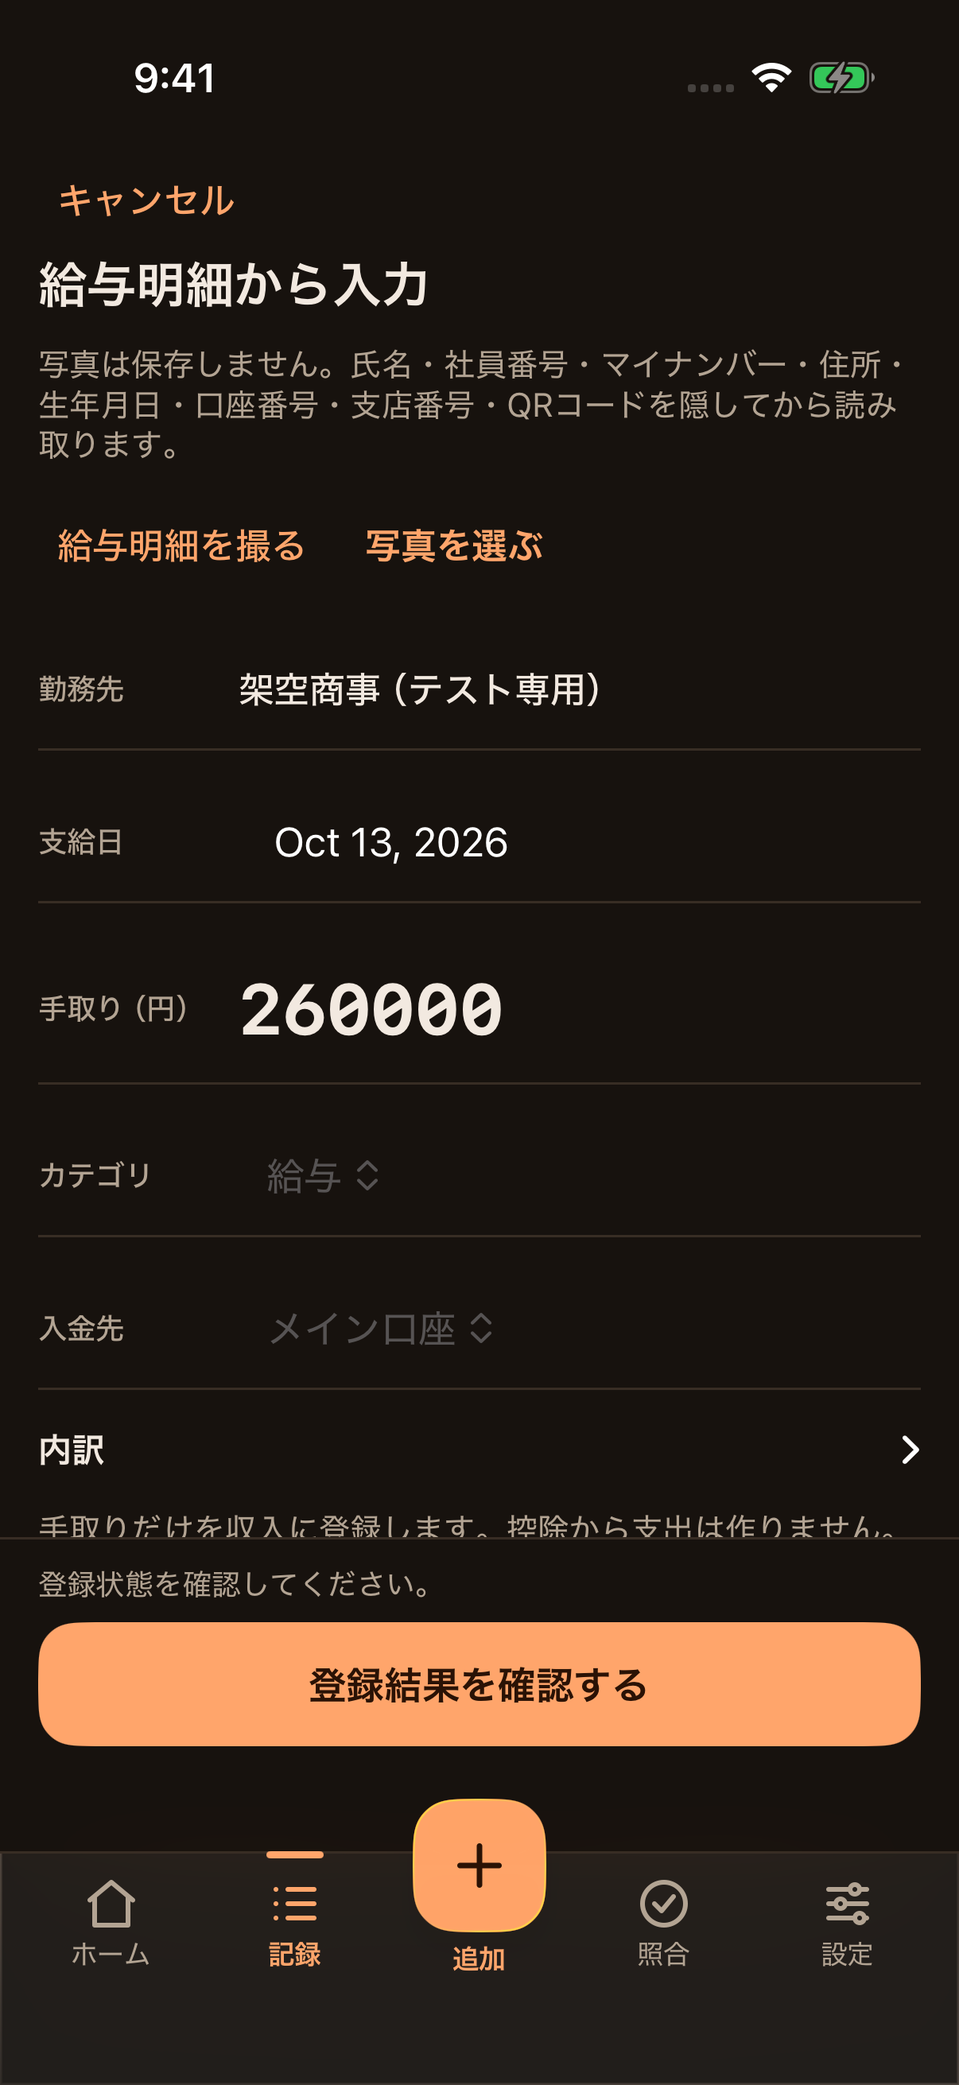
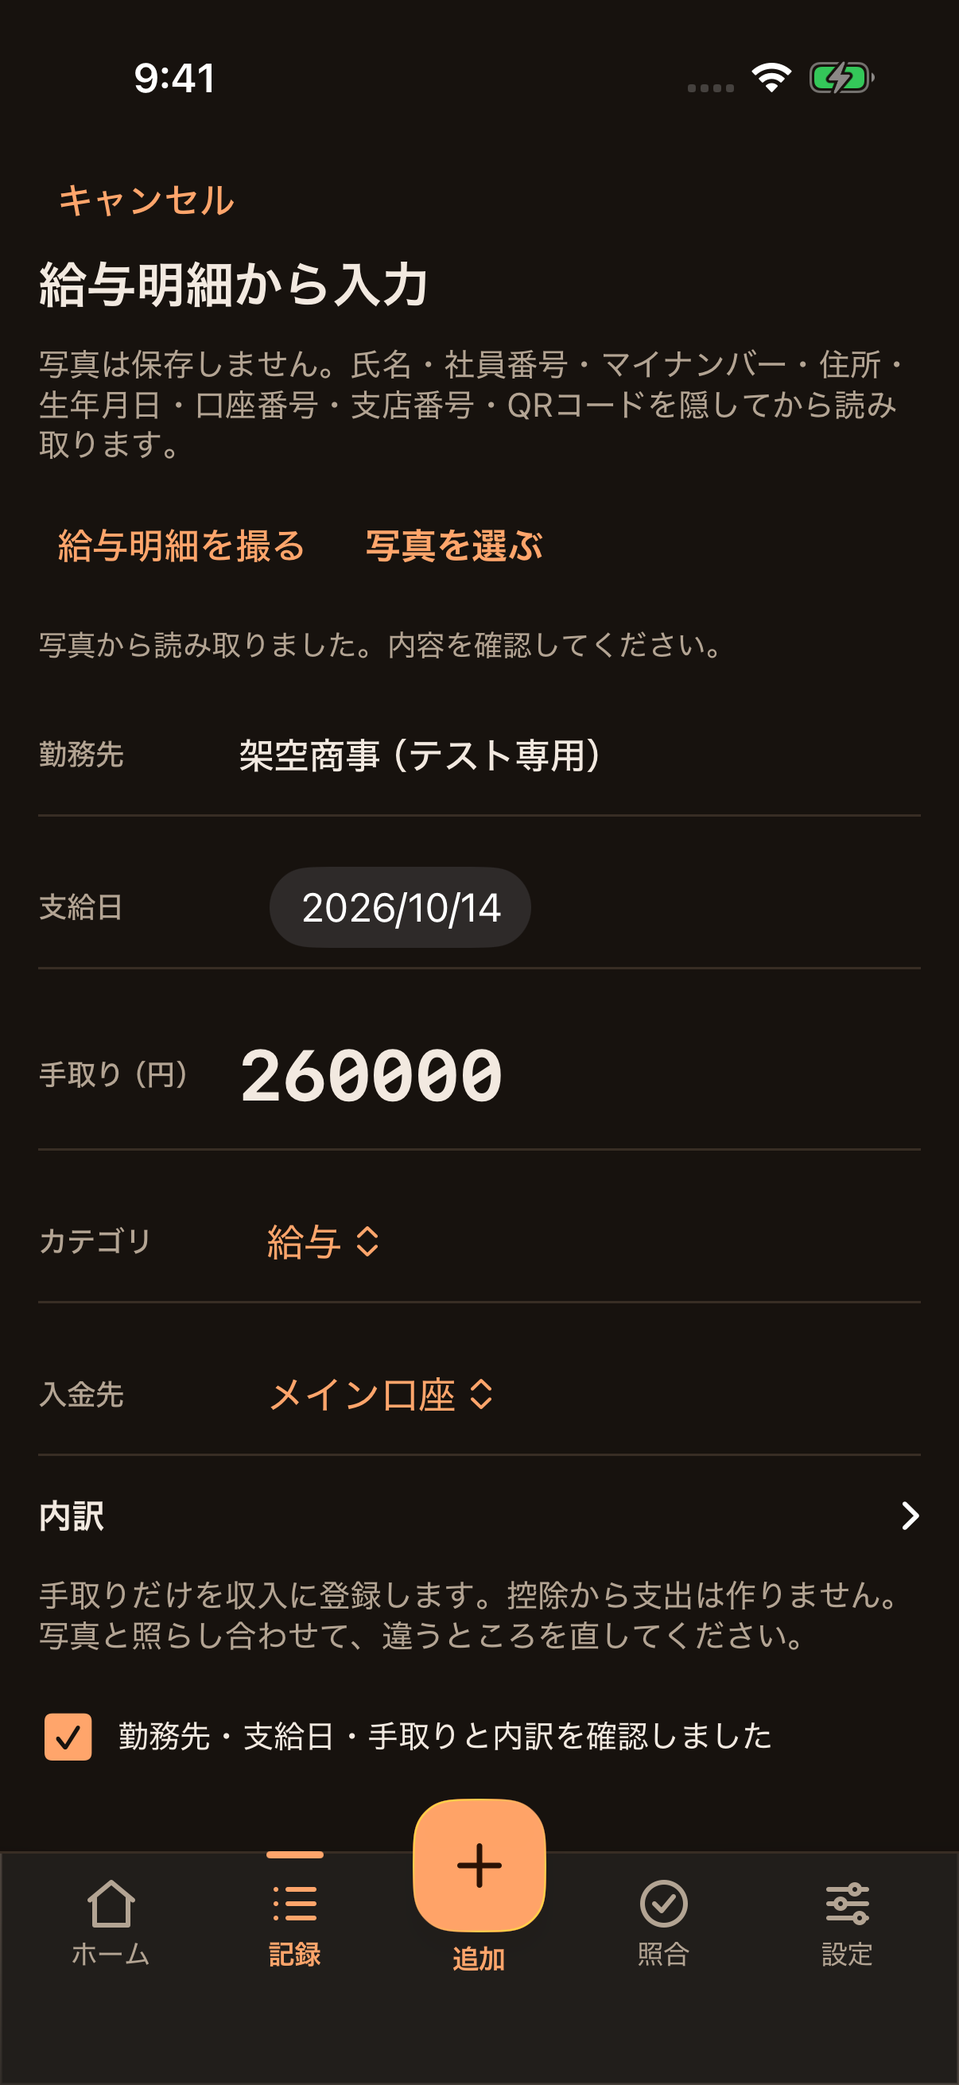
docs(ios): 引き継ぎ書と README を現在の実装に合わせる (#240) (#324)
* docs(ios): 引き継ぎ書の画面一覧・モデル割り振り・利用者決定を現状に合わせる

* docs(ios): README の未接続・placeholder 記述を実装済みの画面に合わせる

* docs(ios): README の画面ロックと比較検証の記述を実装に合わせる

* docs(ios): 給与明細の比較スクリーンショットを最新mainで撮り直す

* docs(ios): HANDOFF の現在の状態に #321/#325/#326/#328 を反映する

* docs(ios): README のレシート学習呼出しを実装済みに合わせる

diff --git a/apps/ios/HANDOFF.md b/apps/ios/HANDOFF.md
@@ -1,6 +1,6 @@
 # Issue #240 iOS移行: Mac への引き継ぎ書
 
-作成: 2026-10-25、更新: 2026-10-29（Mac 側）。Mac 側で画面実装（Phase 3〜5）を進めるための指示書です。
+作成: 2026-10-25、更新: 2026-10-31（Mac 側）。Mac 側で進めた画面実装（Phase 3〜5）の結果と、残っている作業をまとめた引き継ぎ書です。
 担当や実装状態が変わったときは「2. 現在の状態」と「4. Linux 側の作業終了後の実装境界」を更新します。
 
 ## 0. 前提（必ず読む）
@@ -45,7 +45,7 @@ cd apps/ios && xcodegen generate && open KakeiMatch.xcodeproj
 
 5. ビルド変数は次のビルドで反映される。main へ次の PR がマージされるのを待つか、`cf builds create dd4b3c09-9880-47c0-850c-bc30ce881bc5`（body の形は `cf schema builds create` で確認）で再ビルドする。
 6. 反映後に `curl https://kakeimatch.yhgry.workers.dev/api/native/config` が `available:true`、`/.well-known/apple-app-site-association` が 200 で `webcredentials.apps` に `<App ID Prefix>.jp.kakeimatch.ios` を含むことを確認する。
-7. 署名済みの実機で、PWA で登録済みの Passkey によるログイン、App Attest によるゲスト利用、ログアウト・失効を確認する（Simulator は App Attest 非対応なので、クラウド機能が拒否され端末内機能は動くことを確認する）。結果は Issue #240 にコメントする。
+7. 署名済みの実機で、PWA で登録済みの Passkey によるログイン、App Attest によるゲスト利用、ログアウト・失効を確認する（Simulator は App Attest 非対応なので、クラウド機能が拒否され端末内機能は動くことを確認する）。この確認は利用者が行い、結果は Issue #240 にコメントする。`KMNativeAPIHost` は `project.yml` の `postBuildScripts` が署名前に `$(KM_NATIVE_HOST)` を注入するため、生成plistの値を実機ビルドで確認する。
 
 ローカルで生成済みのprojectから確認する場合（CIはビルド成果物を共有してテストを分割する。詳細とartifactの取得方法は `README.md` の「生成・ビルド・テスト」を参照。simulator 名は `xcrun simctl list devices available` で実在するものを使う）:
 
@@ -81,14 +81,39 @@ pnpm --dir apps/pwa dev          # Safari / Playwright で 390x844 表示
 | Home | `feature/ios-home` | #295 | **Mac** | マージ済み（`be4a1df`） |
 | 照合バッジと shell | `fix/ios-shell-review-badge` | #300 | **Mac** | マージ済み（`8ab3b14`） |
 | 記録一覧 | `feature/ios-records` | #301 | **Mac** | マージ済み（`a15b0c8`） |
-| 画面13: 給与明細 | `feature/ios-payroll` | #319 | **Mac** | PR作成済み。収入入力導線、AI読取、確認、手取り収入と内訳snapshotの一括保存。レビュー指摘の確認UI・支給日表記・レシート導線の回帰を修正 |
-| 画面10: 設定（ログイン・利用状況） | `feature/ios-native-auth-ui` | #322 | **Mac** | PR作成済み。初回Passkeyログイン・招待登録・Passkey追加/削除・ゲスト開始・AI利用回数・ログアウト・Cloud account削除。実機のPasskey/App Attestは未検証 |
-| 各画面（3 節） | 画面ごと | 画面ごと | **Mac** | 未着手 |
-| Visual regression（PWA と iOS のスクショ比較・差分 artifact） | 未作成 | 未作成 | **Mac** | 未着手 |
+| 設定・テーマ・画面ロック | `feature/ios-settings`, `feature/ios-settings-shell` | #303, #305 | **Mac** | マージ済み（PWA準拠の設定、テーマ、画面ロック） |
+| 明細照合（CSV取り込み・判断履歴） | `feature/ios-reconciliation` | #304 | **Mac** | マージ済み |
+| 手入力（支出・収入・振替） | `feature/ios-entry` | #307 | **Mac** | マージ済み |
+| レシート登録（撮影・AI読み取り・警告確認・台帳登録） | `feature/ios-receipt` | #308 | **Mac** | マージ済み。撮影画像の新規保存と未完成入力の下書き保存は #331 で接続 |
+| 予算 | `feature/ios-budget` | #309 | **Mac** | マージ済み |
+| 問い合わせ | `feature/ios-contact`, `feature/ios-contact-diagnostics` | #310, #320 | **Mac** | マージ済み。同意時の診断情報添付まで接続 |
+| 定期登録（追いつき履歴を含む） | `t3/ios-recurring-registration`, `t3/ios-recurring-catch-up` | #312, #315 | **Mac** | マージ済み |
+| 品目一覧・カテゴリ修正 | `t3/receipt-items-category-correction` | #314 | **Mac** | マージ済み |
+| カテゴリ / 支払元管理 | `t3/category-payment-source-management` | #316 | **Mac** | マージ済み |
+| バックアップ / 復元 | `feature/ios-backup-screen-v2` | #317 | **Mac** | マージ済み（`.kmib` 書き出し、`.kmb` / `.kmib` 復元） |
+| MoneyForward CSV 取り込み | `feature/ios-moneyforward-v2` | #318 | **Mac** | マージ済み |
+| 画面13: 給与明細 | `feature/ios-payroll` | #319 | **Mac** | マージ済み（`e31be35`）。収入入力導線、AI読取、確認、手取り収入と内訳snapshotの一括保存 |
+| 記録一覧の口座導線と削除取り消しのタブ横断表示 | `feature/ios-shell-account-undo` | #321 | **Mac** | マージ済み（`b403b3c`）。「口座・残高を見る」から設定の支払元・口座へ遷移し、取り消し通知は shell が保持してタブを移っても10秒表示 |
+| 登録済みレシートの品目カテゴリ編集・画像拡大 | `feature/ios-receipt-item-category-edit` | #323 | **Mac** | マージ済み（`bfa5848`） |
+| Visual regression（PWA と iOS のスクショ比較・差分 artifact） | `feature/ios-visual-regression` | #325 | **Mac** | マージ済み（`e91a9db`）。`ios` job の main push・手動実行で `ios-visual-regression` artifact を生成。差分率による合否判定はしない |
+| Home の表示集計を Repository の1回の取得にまとめる | `feature/ios-home-summary-repository` | #326 | **Mac** | マージ済み（`6cbccec`）。`transactions.homeDashboard(month:today:)` で収支・予算・要確認・カテゴリ内訳をまとめて取得 |
+| ローカル Simulator の JavaScriptCore クラッシュ修正 | `fix/ios-local-jsc-crash` | #328 | **Mac** | マージ済み（`fc4decd`）。原因と回避策は `docs/LOCAL_SIMULATOR_JSC.md` |
+| 記録詳細の給与内訳 | `feature/ios-payroll-breakdown-detail` | #327 | **Mac** | マージ済み（`ce8afb3`）。登録済み給与の収入記録で、登録時に確認した内訳を折りたたみ表示 |
+| AI 応答 schema 検証の監査 | `feature/ios-ai-response-validation` | #330 | **Mac** | マージ済み（`6aec4d6`）。レシート・分類・給与の3応答は `KMAPIShapes` で検証済みと確認し、不正応答の拒否テストを追加 |
+| `.kmb` の有効 schedule と MoneyForward 履歴の投影 | `feature/ios-kmb-schedules-mf-history` | #333 | **Mac** | マージ済み（`66401c2`）。基本形 schedule を native 定期へ、旧 MoneyForward 履歴を native へ投影。複雑な schedule は取り込み全体を拒否 |
+| 設定（ログイン・利用状況） | `feature/ios-native-auth-ui` | #322 | **Mac** | マージ済み（`bf2277a`）。初回Passkeyログイン・招待コード登録・Passkey追加/一覧/削除・ゲスト開始・AI利用回数・ログアウト・Cloud account削除。実機のPasskey / App Attestは未検証 |
+| ネイティブ認証文書の更新 | `docs/native-app-auth-ios-ui` | #329 | **Mac** | マージ済み（`b6f047c`）。`docs/NATIVE_APP_AUTH.md` を #322 の画面と `KMNativeAPIHost` 注入に合わせて更新 |
+| Dynamic Type 対応 | `feature/ios-dynamic-type` | #334 | **Mac** | マージ済み（`2ba3521`）。標準はPWAの固定サイズ、拡大時だけ `@ScaledMetric` で比例拡大。アクセシビリティXLをUIテストで確認 |
+| 複数 scene の profile 排他と古い profile 書込み拒否 | `feature/ios-profile-exclusivity` | #332 | **Mac** | マージ済み（`69a11e1`）。`KMSerialQueue` で全操作を直列化し、COMMIT直前に `active.json` を再検査して `staleProfile` を返す |
+| レシート撮影画像の新規保存と未完成入力の下書き保存 | `feature/ios-receipt-image-draft` | #331 | **Mac** | マージ済み（`e5166ec`）。撮影直後に原本を保存し、下書きを350msのdebounceで保存・再open時に復元 |
 
-## 3. Mac 側でやること: 画面ごとの PR
+2026-10-31 時点で、3 節の画面はすべて main にマージ済みです。残る作業は 6 節の実機確認と、取り込み・Dynamic Type の未検証範囲です。
 
-進め方は 1 画面 1 PR。`Features/<Name>/<Name>View.swift` の placeholder を置き換える。shell・共通部品を変えたいときは別の小さな PR に分ける。
+## 3. 画面ごとの実装（すべてマージ済み）
+
+3 節の画面はすべて main にマージ済みです。以下は当時の進め方と完了条件の記録で、新しい画面を追加するときの基準として残します。
+
+進め方は 1 画面 1 PR。`Features/<Name>/<Name>View.swift` を変更する。shell・共通部品を変えたいときは別の小さな PR に分ける。
 
 | 順 | 画面 | 読む PWA ソース（`apps/pwa/src/`） | 参照スクショ |
 | --- | --- | --- | --- |
@@ -139,20 +164,19 @@ pnpm --dir apps/pwa dev          # Safari / Playwright で 390x844 表示
 - 定期取消は `recurringGenerations(scheduleId:)` → `undoRecurringGeneration(id:dates:at:)`。dates:nilなら未編集生成行だけ取消、編集行と独立した手入力は保持。日付配列なら選択行のsnapshotを再検査。取消済み日を再生成しない。
 - 対象はKakeiMatch画面の操作結果。Actual専用rule/CRDTは再実装しない。`.kmb` の基本形scheduleはnative定期へ、旧PWAのMoneyForward履歴はnativeの移行履歴へ取り込み時に投影する（元記録はprovenanceに保持）。複雑なscheduleは取り込み全体を拒否する。詳細/テスト対応は `docs/DATA_LAYER.md`「書き込みの意味論」を参照する。
 - `.kmb` 取り込みは `repositories.localStore` の `importBackup(from:)` / `returnToPreviousProfile()`。画面は利用者確認、security-scoped URL、エラー表示、成功後の再取得を担当する。
-- APIは `KMWorkerAPI` actorのasync/awaitを使う。native modeはOrigin/Cookieを送らず `/api/native/*` 専用境界を使う。`.existingWorkerCompatibility` は旧Web API向けの明示オプションで、アプリ真正性の証明ではない。既存WebのOrigin/CSRF条件は変更しない。`KM_NATIVE_HOST` はbundleのAPI hostと `webcredentials:` entitlementの両方に使い、previewでは同じbuild settingをpreview hostへ上書きする。App Attest非対応時はクラウド機能を拒否し、端末内機能は継続する。初回Passkeyログイン・招待登録・Passkey管理・ゲスト開始・ログアウトは設定の「ログイン・利用状況」とレシート読み取り前の確認へ接続済み。実Worker・実Passkey・App Attestは署名済み実機で未検証。診断recorderと録音UIは未実装。契約と未検証範囲は `../../docs/NATIVE_APP_AUTH.md` / `docs/API_LAYER.md`。
+- APIは `KMWorkerAPI` actorのasync/awaitを使う。native modeはOrigin/Cookieを送らず `/api/native/*` 専用境界を使う。`.existingWorkerCompatibility` は旧Web API向けの明示オプションで、アプリ真正性の証明ではない。既存WebのOrigin/CSRF条件は変更しない。`KM_NATIVE_HOST` はbundleのAPI hostと `webcredentials:` entitlementの両方に使い、previewでは同じbuild settingをpreview hostへ上書きする。`project.yml` の `postBuildScripts` が署名前に `KMNativeAPIHost` を生成plistへ注入する（`INFOPLIST_KEY_` はcustom keyを反映しないため使わない）。App Attest非対応時はクラウド機能を拒否し、端末内機能は継続する。初回Passkeyログイン・招待登録・Passkey管理・ゲスト開始・ログアウトは設定の「ログイン・利用状況」とレシート読み取り前の確認へ接続済み。実Worker・実Passkey・実App Attest・実機での `KMNativeAPIHost` 注入は未検証で、署名済み実機での確認は利用者が行う。診断recorderは問い合わせの同意時に動作する。音声の録音・文字起こしは作らない（利用者決定、2026-10-30）。契約と未検証範囲は `../../docs/NATIVE_APP_AUTH.md` / `docs/API_LAYER.md`。
 - `readReceipt`は元画像を保持する責任を持たない。画面/Repository側で保存してから呼ぶ。給与は `KMMaskedPayrollImage.prepare` に利用者指定マスクと確認を渡し、同じ画像を見せて同意を取る。送信失敗・画面移動時の給与画像破棄も画面側で行う。contactのflowIdは結果不明時に勝手に再発行しない。
 - 金額は Int（円）。日付は Asia/Tokyo を明示。表示用フォーマットは DesignSystem / Components の既存関数を使い、画面ごとに作らない。
 
-## 5. 実装担当（モデル）の割り振りの目安
+## 5. 実装担当（モデル）の割り振り
 
-- GPT 系は pi（`openai-codex/*`）経由だけで使う。opencode・dsh 経由の GPT / Claude は使わない（利用者指示 2026-10-25）。
-- gpt-6.1-sol: レシート登録、明細照合、記録一覧（インライン編集）、Visual regression の仕組みづくり
-- gpt-6-luna: 定期、予算、マスタ管理、設定、問い合わせ、バックアップ、給与明細、MoneyForward 取り込み、各画面の見た目の微調整
-- luna で足りる作業は luna に任せる（利用者指示 2026-10-26）
+- どのモデルがどの作業を担当するかは、利用者がその都度指示する。固定の割り振りは置かない。
 
 ## 6. 再現できない可能性が高い点（判明しているもの）
 
 - **iOS → PWA 書き出しは提供しない（利用者決定、2026-10-26）。iOS のバックアップは iOS 同士でのみ復元できる。** PWA → iOS は既存の `.kmb` 取り込みを使う。
+
+- **iOS の問い合わせに音声入力（録音・文字起こし）は作らない（利用者決定、2026-10-30）。** 設定行の「声でも送れます」と、問い合わせ画面の音声の文言・ボタンも表示しない。文章での送信だけを提供する。
 
 - `docs/screenshots/migration` の参照スクショは Linux の Chromium で撮影しており、PWA の `--font-body`（-apple-system / Hiragino）と `--font-num`（ui-monospace / SF Mono）が代替フォントで描かれている。iPhone 上の PWA とは字形・字幅が違うので、iOS との比較ではレイアウト・色・余白・文言を見て、字形の差は無視する。Mac では `pnpm --dir apps/pwa screenshots:migration` を Playwright の WebKit で実行し直すと iPhone に近い基準を作れる（Mac 側で最初にやるとよい）
 
@@ -161,9 +185,13 @@ pnpm --dir apps/pwa dev          # Safari / Playwright で 390x844 表示
 - iOS → PWA の書き出しは提供しない（利用者決定 2026-10-26）。PWA の `.kmb` は iOS へ一方向に取り込める。iOS のバックアップは iOS 同士でのみ復元できる
 - 端末間同期は iOS 版では作らない（利用者決定 2026-10-26）
 - 認証: iOS native APIはWebのOrigin/Cookieを送らず、専用session/token境界を使う。旧WebのOrigin/CSRF検査を緩めない。Worker側のendpoint契約と未確認項目は `../../docs/NATIVE_APP_AUTH.md` に記載する。
-- Cloud Passkey: `ASAuthorizationPlatformPublicKeyCredentialProvider`、App Attest、`webcredentials:` entitlementを使うstub差し替え可能なAPI層を追加。previewは `KM_NATIVE_HOST` でAPI URLとAssociated Domainsを同時に切り替える。実端末のPasskey、Associated Domains、署名済みentitlementとWorker統合は未検証。初回登録・ログイン・Passkey追加/一覧/削除・ログアウトの画面導線は設定の「ログイン・利用状況」に実装し、stubとXCUITestで確認した。
+- Cloud Passkey: `ASAuthorizationPlatformPublicKeyCredentialProvider`、App Attest、`webcredentials:` entitlementを使うstub差し替え可能なAPI層を追加。previewは `KM_NATIVE_HOST` でAPI URLとAssociated Domainsを同時に切り替える。`KMNativeAPIHost` は `project.yml` の `postBuildScripts` が署名前に生成plistへ注入する。実端末のPasskey、App Attest、Associated Domains、署名済みentitlement、`KMNativeAPIHost` の注入とWorker統合は未検証で、署名済み実機での確認は利用者が行う。初回登録・ログイン・Passkey追加/一覧/削除・ログアウトの画面導線は設定の「ログイン・利用状況」に実装し、stubとXCUITestで確認した。
 - ゲスト: Turnstileへのnative fallbackはせず、App Attest assertionから専用guest sessionを作る契約。端末合言葉はKeychain、native AI tokenはopaqueな短期値をメモリだけに保持し、30秒の期限余裕で更新する。App Attest非対応時も端末内利用は継続する。詳細・endpoint schemaは `../../docs/NATIVE_APP_AUTH.md` / `docs/API_LAYER.md`。
-- 送信前画像: 通常レシートはPWAどおり元JPEG/PNG/WebPを送るため、HEIC変換や自動メタデータ除去を保証しない。給与だけは1800px以下への縮小・黒塗り・JPEG再描画を提供する。マスキング操作と送信後破棄のUIは別担当。
+- 送信前画像: 通常レシートはPWAどおり元JPEG/PNG/WebPを送るため、HEIC変換や自動メタデータ除去を保証しない。給与だけは1800px以下への縮小・黒塗り・JPEG再描画を提供し、マスキングの指指定・同意チェック・送信後の画像破棄は `Features/Payroll` で接続済み。
+- Dynamic Type: `KMTypography` は標準（Large）でPWAの固定サイズを保ち、拡大設定だけ `@ScaledMetric` で比例拡大する。SimulatorのアクセシビリティXL（AX3）は `DynamicTypeLayoutTests` で確認済み。実機、AX5までの全画面、ダーク外観のアクセシビリティサイズ、VoiceOver、横向きは未検証。
+- `.kmb` 取り込み: PWAの基本形scheduleはnative定期へ、旧MoneyForward履歴はnativeの履歴へ投影する。複雑なActual schedule（可変金額・終了条件・休日調整・複数条件）は取り込み全体を拒否する（黙って落とさないための意図的な制約）。実機・実PWAで作成したschedule付き`.kmb`での手動確認はしていない。
+- 複数scene: iPadの複数ウィンドウは有効で、全sceneが同じ `KMSQLiteStore` を共有する。`KMSerialQueue` で直列化し、profile切替後の古い書込みは `staleProfile` で拒否する。実機iPadでの複数ウィンドウ手動操作、大容量DBでの待機時間、強制終了時の挙動は未検証。profile切替後に他sceneが保持する表示snapshotは自動更新されない。
+- レシート画像の保存・下書き: 撮影/写真選択の直後に原本を保存し、未完成入力は350msのdebounceで保存・再open時に復元する。署名済み実機のカメラ撮影・写真ライブラリ権限拒否・HEIC等の各形式、6 MiB超10 MiB以下の画像、実端末での再起動後の下書き復元、SQLiteの空き容量不足時の挙動は未検証。
 
 - `.xcodeproj` はコミットせず、XcodeGen の `project.yml` から生成する（Issue の想定構成との差）
 - Liquid Glass の枠部分は PWA と見た目が変わる（利用者の希望による意図的な差）
